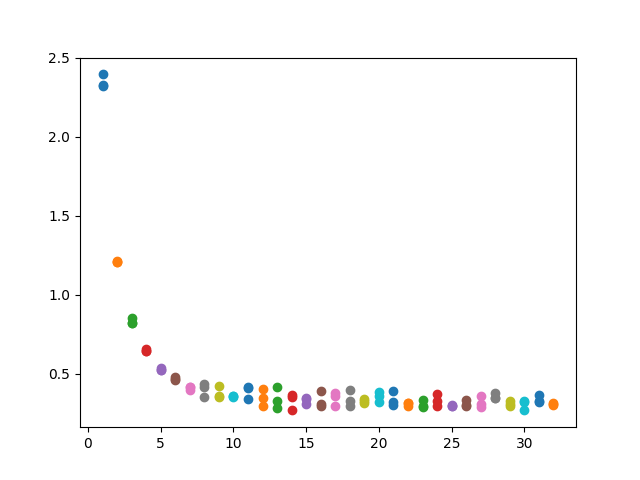
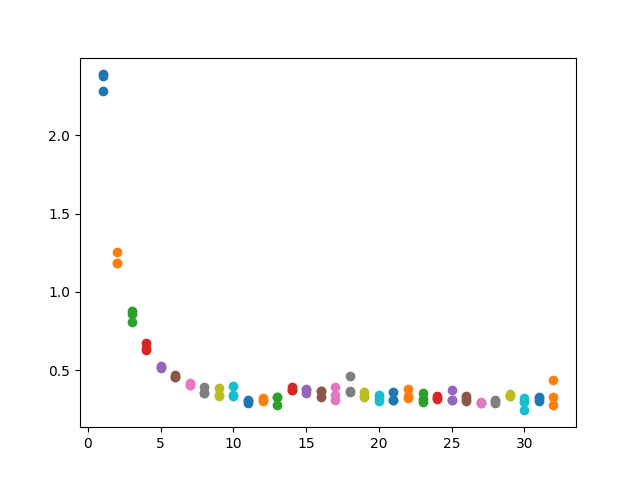
fixed some problems with dividing up matrix

diff --git a/pjacobi.c b/pjacobi.c
@@ -1,5 +1,7 @@
 #include <stdio.h>
 #include <stdlib.h>
+#include <stdint.h>
+#include <inttypes.h>
 #include <math.h>
 #include <sys/time.h>
 #include <assert.h>
@@ -10,6 +12,9 @@
 #define N 2000
 #define delta 0.05
 #define NUM_THREADS_INDEX 1
+
+#define DEBUG 0
+
 
 
 enum {
@@ -22,6 +27,10 @@ struct thread_info {
   int t;
   int start;
   int stop;
+  double thread_start_time;
+  double *calc_start_time;
+  double *calc_stop_time;
+  uint32_t grids;
 };
 
 int delta_result = 0;
@@ -36,8 +45,9 @@ static pthread_barrier_t barrier[ NUM_BARRIERS ];
 
 double a[N][N], b[N][N], correct[N][N];
 
-void jacobi( double p[N][N], double q[N][N], int start_j, int end_j ) {
+uint32_t jacobi( double p[N][N], double q[N][N], int start_j, int end_j ) {
 	int i, j;
+  uint32_t grids= 0;
   int end = ( end_j == N ) ? N - 1 : end_j;
   // middle 
 	for ( i = 1; i < N - 1; i++ ) {
@@ -47,6 +57,7 @@ void jacobi( double p[N][N], double q[N][N], int start_j, int end_j ) {
 				+ p[i][j-1] + p[i][j] + p[i][j+1]
 				+ p[i-1][j-1] + p[i-1][j] + p[i-1][j+1];
 			q[i][j] /= 9.0;
+      grids++;
 		}
 	}
   // vertical sides
@@ -56,12 +67,14 @@ void jacobi( double p[N][N], double q[N][N], int start_j, int end_j ) {
 			  + p[i][0] + p[i][1]	
 			  + p[i-1][0] + p[i-1][1];
 		  q[i][0] /= 6.0;
+      grids++;
     }
     if ( end_j == N ) {
 		  q[i][N-1] = p[i+1][N-2] + p[i+1][N-1] 
 			  + p[i][N-2] + p[i][N-1] 
 			  + p[i-1][N-2] + p[i-1][N-1];
 		  q[i][N-1] /=6.0;
+      grids++;
     }
 	}
   // horizonal sides
@@ -76,16 +89,20 @@ void jacobi( double p[N][N], double q[N][N], int start_j, int end_j ) {
 		q[N-1][j] = p[i-1][j-1] + p[i-1][j] + p[i-1][j+1]
 			+ p[i][j-1] + p[i][j] + p[i][j+1];
 		q[N-1][j] /= 6.0;
+    grids+=2;
 	}
   // two corners
   if (start_j == 0 ) {
 	  q[0][N-1] = p[0][N-1] + p[0][N-2] + p[1][N-2] + p[1][N-1];
 	  q[0][N-1] /= 4.0;
+    grids++;
   }
   if ( end_j == N ) {
 	  q[N-1][0] = p[N-1][0] + p[N-2][0] + p[N-2][1] + p[N-1][1];
 	  q[N-1][0] /= 4.0;
+    grids++;
   }
+  return grids;
 } 
 
 void *thread_loop(void *threadnum) {
@@ -95,9 +112,12 @@ void *thread_loop(void *threadnum) {
   int stop = args->stop;
 
   int count = 0;
-  struct timeval init_start, init_stop, delta_start, delta_stop, calc_start, calc_stop;
+  struct timeval init_start, init_stop, delta_start, delta_stop, calc_start, calc_stop, thread_start;
   double elapsed_delta= 0.0;
   double elapsed_calc = 0.0;
+  
+  //gettimeofday( &thread_start, NULL );
+  //args->thread_start_time = thread_start.tv_sec + thread_start.tv_usec / 1000000.0;
 
   if (t == 0) {
     gettimeofday( &init_start, NULL);
@@ -109,7 +129,6 @@ void *thread_loop(void *threadnum) {
   pthread_barrier_wait ( &barrier[BARRIER_INIT] );
 
   while(1) {
-    count++;
     gettimeofday( &calc_start, NULL );
     if (! (count%2) ) {
       jacobi( a, b, start, stop);
@@ -125,6 +144,11 @@ void *thread_loop(void *threadnum) {
 //      }
     }
     gettimeofday( &calc_stop, NULL );
+    if (DEBUG) {
+      args->calc_start_time[ count ] = ( calc_start.tv_sec - thread_start.tv_sec ) + ( calc_start.tv_usec - thread_start.tv_usec ) / 1000000.0;
+      args->calc_stop_time[ count ] = ( calc_stop.tv_sec - thread_start.tv_sec ) + ( calc_stop.tv_usec - thread_start.tv_usec ) / 1000000.0;
+    }
+    count++;
     elapsed_calc += (calc_stop.tv_sec - calc_start.tv_sec) + (calc_stop.tv_usec - calc_start.tv_usec) / 1000000.0;
 
     gettimeofday( &delta_start, NULL );
@@ -145,6 +169,7 @@ void *thread_loop(void *threadnum) {
   if( t == 0 ) {
     fprintf( stdout, "%lf %lf\n", elapsed_delta, elapsed_calc );
   }
+
   //fprintf( stdout, "I am thread %d and elapsed calc is %lf\n", t,  elapsed_calc);
   pthread_exit( NULL );
 
@@ -197,7 +222,7 @@ int main( int argc, char *argv[] )  {
   
   num_threads = atoi( argv[ NUM_THREADS_INDEX ] );
 
-  step = ceil( N / num_threads );
+  step = ceil( N / ( double ) num_threads );
 
   struct thread_info thread_args[ num_threads ];
   pthread_t threads[ num_threads ];
@@ -210,6 +235,9 @@ int main( int argc, char *argv[] )  {
     thread_args[ t ].t = t;
     thread_args[ t ].start = t * step;
     thread_args[ t ].stop = ( t != num_threads - 1 ) ? ( step * ( t + 1 ) ) : N;
+    //thread_args[ t ].thread_start_time = 0;
+    //thread_args[ t ].calc_start_time = ( double * ) malloc( sizeof( double ) * 200 );
+    //thread_args[ t ].calc_stop_time = ( double * ) malloc( sizeof( double ) * 200 );
     assert( ! pthread_create( &threads[ t ], NULL, thread_loop, (void*)&thread_args[t] ) );
   }
 
@@ -221,6 +249,25 @@ int main( int argc, char *argv[] )  {
     assert( ! pthread_barrier_destroy( &barrier[ t ] ) );
   }
 
+  if (DEBUG) {
+    int i;
+    printf("\n");
+    for ( t = 0; t < num_threads; t++ ) {
+      printf("%10.6f ", thread_args[ t ].thread_start_time);
+    }
+    printf("\n");
+    for ( i = 0; i < 200; i++ ) {
+      for ( t = 0; t < num_threads; t++ ) {
+        printf("%10.6lf ", thread_args[ t ].calc_start_time[ i ] );
+      }
+      printf("\n");
+      for ( t = 0; t < num_threads; t++ ) {
+        printf("%10.6lf ", thread_args[ t ].calc_stop_time[ i ] );
+      }
+      printf("\n\n\n");
+
+    }
+  }
   //readMatrixFromFile( "correct", correct );
   //checkAnswer( N, b, correct, 0);
   pthread_exit(NULL);

diff --git a/graph_jacobi.py b/graph_jacobi.py
@@ -12,7 +12,7 @@ def process_stream( stream: "iterable" ) -> int:
 if __name__ == "__main__":
   times = defaultdict( list )
 
-  for i in range( 1, 100 ): # number of cores
+  for i in range( 1, 33 ): # number of cores
     for _ in range(3):
       stream = os.popen( f'./a.out {i}' )
       init_time, delta_time, calc_time = process_stream( stream )
@@ -21,4 +21,4 @@ if __name__ == "__main__":
 
   for threads, exectimes in times.items():
     plt.scatter( [threads] * 3, exectimes )
-  plt.savefig( "graph100.png" )
+  plt.savefig( "graph.png" )
